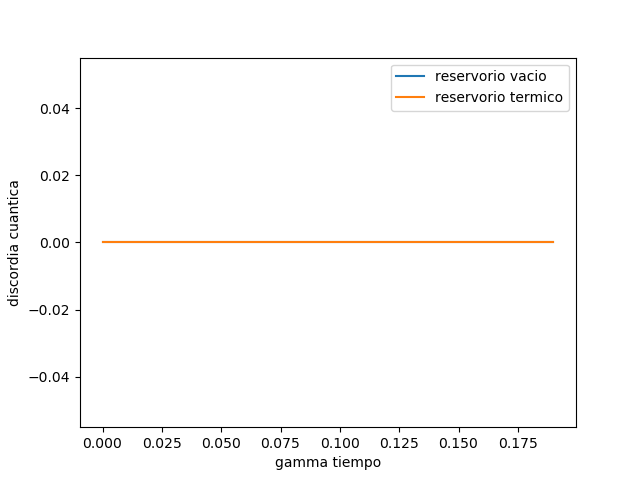
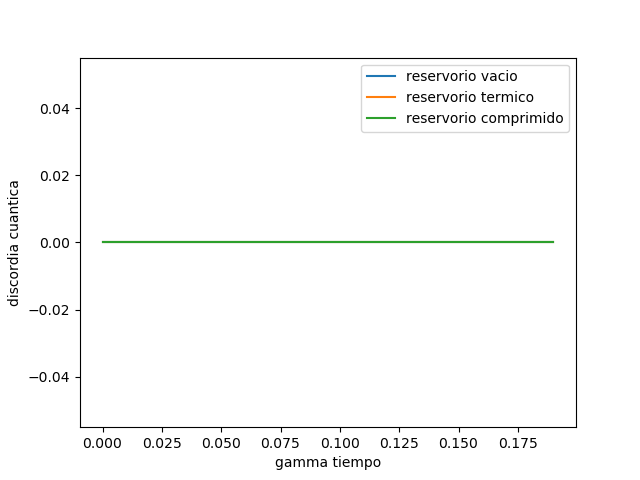
Cambio generado con script

Changed region(s): [[0.5625, 0.125, 0.875, 0.2812], [0.1562, 0.5, 0.8438, 0.5312]]

diff --git a/master.py b/master.py
@@ -142,123 +142,124 @@ disc_I5_S2S = [0 for i in range(20)]
 for i in range (0,20):
       conc_I1_S0S[i] = concurrence(Qobj(tensor(emA_I1_S0S.states[i],emB_I1_S0S.states[i])))
       disc_I1_S0S[i] = entropy_mutual(Qobj(tensor(emA_I1_S0S.states[i],emB_I1_S0S.states[i])),0,1)+entropy_conditional(Qobj(tensor(emA_I1_S0S.states[i],emB_I1_S0S.states[i])),1)-entropy_vn(Qobj(tensor(emA_I1_S0S.states[i],emB_I1_S0S.states[i])).ptrace(0))
-      conc_I2_S0S[i] = concurrence(Qobj(tensor(emA_I1_S0S.states[i],emB_I1_S0S.states[i])))
-      disc_I2_S0S[i] = entropy_mutual(Qobj(tensor(emA_I1_S0S.states[i],emB_I1_S0S.states[i])),0,1)+entropy_conditional(Qobj(tensor(emA_I1_S0S.states[i],emB_I1_S0S.states[i])),1)-entropy_vn(Qobj(tensor(emA_I1_S0S.states[i],emB_I1_S0S.states[i])).ptrace(0))
-      conc_I3_S0S[i] = concurrence(Qobj(tensor(emA_I1_S0S.states[i],emB_I1_S0S.states[i])))
-      disc_I3_S0S[i] = entropy_mutual(Qobj(tensor(emA_I1_S0S.states[i],emB_I1_S0S.states[i])),0,1)+entropy_conditional(Qobj(tensor(emA_I1_S0S.states[i],emB_I1_S0S.states[i])),1)-entropy_vn(Qobj(tensor(emA_I1_S0S.states[i],emB_I1_S0S.states[i])).ptrace(0))
-      conc_I4_S0S[i] = concurrence(Qobj(tensor(emA_I1_S0S.states[i],emB_I1_S0S.states[i])))
-      disc_I4_S0S[i] = entropy_mutual(Qobj(tensor(emA_I1_S0S.states[i],emB_I1_S0S.states[i])),0,1)+entropy_conditional(Qobj(tensor(emA_I1_S0S.states[i],emB_I1_S0S.states[i])),1)-entropy_vn(Qobj(tensor(emA_I1_S0S.states[i],emB_I1_S0S.states[i])).ptrace(0))
-      conc_I5_S0S[i] = concurrence(Qobj(tensor(emA_I1_S0S.states[i],emB_I1_S0S.states[i])))
-      disc_I5_S0S[i] = entropy_mutual(Qobj(tensor(emA_I1_S0S.states[i],emB_I1_S0S.states[i])),0,1)+entropy_conditional(Qobj(tensor(emA_I1_S0S.states[i],emB_I1_S0S.states[i])),1)-entropy_vn(Qobj(tensor(emA_I1_S0S.states[i],emB_I1_S0S.states[i])).ptrace(0))
-      conc_I1_S1S[i] = concurrence(Qobj(tensor(emA_I1_S0S.states[i],emB_I1_S0S.states[i])))
-      disc_I1_S1S[i] = entropy_mutual(Qobj(tensor(emA_I1_S0S.states[i],emB_I1_S0S.states[i])),0,1)+entropy_conditional(Qobj(tensor(emA_I1_S0S.states[i],emB_I1_S0S.states[i])),1)-entropy_vn(Qobj(tensor(emA_I1_S0S.states[i],emB_I1_S0S.states[i])).ptrace(0))
-      conc_I2_S1S[i] = concurrence(Qobj(tensor(emA_I1_S0S.states[i],emB_I1_S0S.states[i])))
-      disc_I2_S1S[i] = entropy_mutual(Qobj(tensor(emA_I1_S0S.states[i],emB_I1_S0S.states[i])),0,1)+entropy_conditional(Qobj(tensor(emA_I1_S0S.states[i],emB_I1_S0S.states[i])),1)-entropy_vn(Qobj(tensor(emA_I1_S0S.states[i],emB_I1_S0S.states[i])).ptrace(0))
-      conc_I3_S1S[i] = concurrence(Qobj(tensor(emA_I1_S0S.states[i],emB_I1_S0S.states[i])))
-      disc_I3_S1S[i] = entropy_mutual(Qobj(tensor(emA_I1_S0S.states[i],emB_I1_S0S.states[i])),0,1)+entropy_conditional(Qobj(tensor(emA_I1_S0S.states[i],emB_I1_S0S.states[i])),1)-entropy_vn(Qobj(tensor(emA_I1_S0S.states[i],emB_I1_S0S.states[i])).ptrace(0))
-      conc_I4_S1S[i] = concurrence(Qobj(tensor(emA_I1_S0S.states[i],emB_I1_S0S.states[i])))
-      disc_I4_S1S[i] = entropy_mutual(Qobj(tensor(emA_I1_S0S.states[i],emB_I1_S0S.states[i])),0,1)+entropy_conditional(Qobj(tensor(emA_I1_S0S.states[i],emB_I1_S0S.states[i])),1)-entropy_vn(Qobj(tensor(emA_I1_S0S.states[i],emB_I1_S0S.states[i])).ptrace(0))
-      conc_I5_S1S[i] = concurrence(Qobj(tensor(emA_I1_S0S.states[i],emB_I1_S0S.states[i])))
-      disc_I5_S1S[i] = entropy_mutual(Qobj(tensor(emA_I1_S0S.states[i],emB_I1_S0S.states[i])),0,1)+entropy_conditional(Qobj(tensor(emA_I1_S0S.states[i],emB_I1_S0S.states[i])),1)-entropy_vn(Qobj(tensor(emA_I1_S0S.states[i],emB_I1_S0S.states[i])).ptrace(0))
-      conc_I1_S2S[i] = concurrence(Qobj(tensor(emA_I1_S0S.states[i],emB_I1_S0S.states[i])))
-      disc_I1_S2S[i] = entropy_mutual(Qobj(tensor(emA_I1_S0S.states[i],emB_I1_S0S.states[i])),0,1)+entropy_conditional(Qobj(tensor(emA_I1_S0S.states[i],emB_I1_S0S.states[i])),1)-entropy_vn(Qobj(tensor(emA_I1_S0S.states[i],emB_I1_S0S.states[i])).ptrace(0))
-      conc_I2_S2S[i] = concurrence(Qobj(tensor(emA_I1_S0S.states[i],emB_I1_S0S.states[i])))
-      disc_I2_S2S[i] = entropy_mutual(Qobj(tensor(emA_I1_S0S.states[i],emB_I1_S0S.states[i])),0,1)+entropy_conditional(Qobj(tensor(emA_I1_S0S.states[i],emB_I1_S0S.states[i])),1)-entropy_vn(Qobj(tensor(emA_I1_S0S.states[i],emB_I1_S0S.states[i])).ptrace(0))
-      conc_I3_S2S[i] = concurrence(Qobj(tensor(emA_I1_S0S.states[i],emB_I1_S0S.states[i])))
-      disc_I3_S2S[i] = entropy_mutual(Qobj(tensor(emA_I1_S0S.states[i],emB_I1_S0S.states[i])),0,1)+entropy_conditional(Qobj(tensor(emA_I1_S0S.states[i],emB_I1_S0S.states[i])),1)-entropy_vn(Qobj(tensor(emA_I1_S0S.states[i],emB_I1_S0S.states[i])).ptrace(0))
-      conc_I4_S2S[i] = concurrence(Qobj(tensor(emA_I1_S0S.states[i],emB_I1_S0S.states[i])))
-      disc_I4_S2S[i] = entropy_mutual(Qobj(tensor(emA_I1_S0S.states[i],emB_I1_S0S.states[i])),0,1)+entropy_conditional(Qobj(tensor(emA_I1_S0S.states[i],emB_I1_S0S.states[i])),1)-entropy_vn(Qobj(tensor(emA_I1_S0S.states[i],emB_I1_S0S.states[i])).ptrace(0))
-      conc_I5_S2S[i] = concurrence(Qobj(tensor(emA_I1_S0S.states[i],emB_I1_S0S.states[i])))
-      disc_I5_S2S[i] = entropy_mutual(Qobj(tensor(emA_I1_S0S.states[i],emB_I1_S0S.states[i])),0,1)+entropy_conditional(Qobj(tensor(emA_I1_S0S.states[i],emB_I1_S0S.states[i])),1)-entropy_vn(Qobj(tensor(emA_I1_S0S.states[i],emB_I1_S0S.states[i])).ptrace(0))
+      conc_I2_S0S[i] = concurrence(Qobj(tensor(emA_I2_S0S.states[i],emB_I2_S0S.states[i])))
+      disc_I2_S0S[i] = entropy_mutual(Qobj(tensor(emA_I2_S0S.states[i],emB_I2_S0S.states[i])),0,1)+entropy_conditional(Qobj(tensor(emA_I2_S0S.states[i],emB_I2_S0S.states[i])),1)-entropy_vn(Qobj(tensor(emA_I2_S0S.states[i],emB_I2_S0S.states[i])).ptrace(0))
+      conc_I3_S0S[i] = concurrence(Qobj(tensor(emA_I3_S0S.states[i],emB_I3_S0S.states[i])))
+      disc_I3_S0S[i] = entropy_mutual(Qobj(tensor(emA_I3_S0S.states[i],emB_I3_S0S.states[i])),0,1)+entropy_conditional(Qobj(tensor(emA_I3_S0S.states[i],emB_I3_S0S.states[i])),1)-entropy_vn(Qobj(tensor(emA_I3_S0S.states[i],emB_I3_S0S.states[i])).ptrace(0))
+      conc_I4_S0S[i] = concurrence(Qobj(tensor(emA_I4_S0S.states[i],emB_I4_S0S.states[i])))
+      disc_I4_S0S[i] = entropy_mutual(Qobj(tensor(emA_I4_S0S.states[i],emB_I4_S0S.states[i])),0,1)+entropy_conditional(Qobj(tensor(emA_I4_S0S.states[i],emB_I4_S0S.states[i])),1)-entropy_vn(Qobj(tensor(emA_I4_S0S.states[i],emB_I1_S0S.states[i])).ptrace(0))
+      conc_I5_S0S[i] = concurrence(Qobj(tensor(emA_I5_S0S.states[i],emB_I5_S0S.states[i])))
+      disc_I5_S0S[i] = entropy_mutual(Qobj(tensor(emA_I5_S0S.states[i],emB_I5_S0S.states[i])),0,1)+entropy_conditional(Qobj(tensor(emA_I5_S0S.states[i],emB_I5_S0S.states[i])),1)-entropy_vn(Qobj(tensor(emA_I5_S0S.states[i],emB_I1_S0S.states[i])).ptrace(0))
+      conc_I1_S1S[i] = concurrence(Qobj(tensor(emA_I1_S1S.states[i],emB_I1_S1S.states[i])))
+      disc_I1_S1S[i] = entropy_mutual(Qobj(tensor(emA_I1_S1S.states[i],emB_I1_S1S.states[i])),0,1)+entropy_conditional(Qobj(tensor(emA_I1_S1S.states[i],emB_I1_S1S.states[i])),1)-entropy_vn(Qobj(tensor(emA_I1_S1S.states[i],emB_I1_S1S.states[i])).ptrace(0))
+      conc_I2_S1S[i] = concurrence(Qobj(tensor(emA_I2_S1S.states[i],emB_I2_S1S.states[i])))
+      disc_I2_S1S[i] = entropy_mutual(Qobj(tensor(emA_I2_S1S.states[i],emB_I2_S1S.states[i])),0,1)+entropy_conditional(Qobj(tensor(emA_I2_S1S.states[i],emB_I2_S1S.states[i])),1)-entropy_vn(Qobj(tensor(emA_I2_S1S.states[i],emB_I2_S1S.states[i])).ptrace(0))
+      conc_I3_S1S[i] = concurrence(Qobj(tensor(emA_I3_S1S.states[i],emB_I3_S1S.states[i])))
+      disc_I3_S1S[i] = entropy_mutual(Qobj(tensor(emA_I3_S1S.states[i],emB_I3_S1S.states[i])),0,1)+entropy_conditional(Qobj(tensor(emA_I3_S1S.states[i],emB_I3_S1S.states[i])),1)-entropy_vn(Qobj(tensor(emA_I3_S1S.states[i],emB_I3_S1S.states[i])).ptrace(0))
+      conc_I4_S1S[i] = concurrence(Qobj(tensor(emA_I4_S1S.states[i],emB_I4_S1S.states[i])))
+      disc_I4_S1S[i] = entropy_mutual(Qobj(tensor(emA_I4_S1S.states[i],emB_I4_S1S.states[i])),0,1)+entropy_conditional(Qobj(tensor(emA_I4_S1S.states[i],emB_I4_S1S.states[i])),1)-entropy_vn(Qobj(tensor(emA_I4_S1S.states[i],emB_I4_S1S.states[i])).ptrace(0))
+      conc_I5_S1S[i] = concurrence(Qobj(tensor(emA_I5_S1S.states[i],emB_I5_S1S.states[i])))
+      disc_I5_S1S[i] = entropy_mutual(Qobj(tensor(emA_I5_S1S.states[i],emB_I5_S1S.states[i])),0,1)+entropy_conditional(Qobj(tensor(emA_I5_S1S.states[i],emB_I5_S1S.states[i])),1)-entropy_vn(Qobj(tensor(emA_I5_S1S.states[i],emB_I5_S1S.states[i])).ptrace(0))
+      conc_I1_S2S[i] = concurrence(Qobj(tensor(emA_I1_S2S.states[i],emB_I1_S2S.states[i])))
+      disc_I1_S2S[i] = entropy_mutual(Qobj(tensor(emA_I1_S2S.states[i],emB_I1_S2S.states[i])),0,1)+entropy_conditional(Qobj(tensor(emA_I1_S2S.states[i],emB_I1_S2S.states[i])),1)-entropy_vn(Qobj(tensor(emA_I1_S2S.states[i],emB_I1_S2S.states[i])).ptrace(0))
+      conc_I2_S2S[i] = concurrence(Qobj(tensor(emA_I2_S2S.states[i],emB_I2_S2S.states[i])))
+      disc_I2_S2S[i] = entropy_mutual(Qobj(tensor(emA_I2_S2S.states[i],emB_I2_S2S.states[i])),0,1)+entropy_conditional(Qobj(tensor(emA_I2_S2S.states[i],emB_I2_S2S.states[i])),1)-entropy_vn(Qobj(tensor(emA_I2_S2S.states[i],emB_I2_S2S.states[i])).ptrace(0))
+      conc_I3_S2S[i] = concurrence(Qobj(tensor(emA_I3_S2S.states[i],emB_I3_S2S.states[i])))
+      disc_I3_S2S[i] = entropy_mutual(Qobj(tensor(emA_I3_S2S.states[i],emB_I3_S2S.states[i])),0,1)+entropy_conditional(Qobj(tensor(emA_I3_S2S.states[i],emB_I3_S2S.states[i])),1)-entropy_vn(Qobj(tensor(emA_I3_S2S.states[i],emB_I3_S2S.states[i])).ptrace(0))
+      conc_I4_S2S[i] = concurrence(Qobj(tensor(emA_I4_S2S.states[i],emB_I4_S2S.states[i])))
+      disc_I4_S2S[i] = entropy_mutual(Qobj(tensor(emA_I4_S2S.states[i],emB_I4_S2S.states[i])),0,1)+entropy_conditional(Qobj(tensor(emA_I4_S2S.states[i],emB_I4_S2S.states[i])),1)-entropy_vn(Qobj(tensor(emA_I4_S2S.states[i],emB_I4_S2S.states[i])).ptrace(0))
+      conc_I5_S2S[i] = concurrence(Qobj(tensor(emA_I5_S2S.states[i],emB_I5_S2S.states[i])))
+      disc_I5_S2S[i] = entropy_mutual(Qobj(tensor(emA_I5_S2S.states[i],emB_I5_S2S.states[i])),0,1)+entropy_conditional(Qobj(tensor(emA_I5_S2S.states[i],emB_I5_S2S.states[i])),1)-entropy_vn(Qobj(tensor(emA_I5_S2S.states[i],emB_I5_S2S.states[i])).ptrace(0))
 
 #Graficar
 figure()
 plot(tiempo,disc_I1_S0S)
 plot(tiempo,disc_I1_S1S)
-#plot(tiempo,disc_I1_S2S)
+plot(tiempo,disc_I1_S2S)
 xlabel('gamma tiempo')
 ylabel('discordia cuantica')
-legend(('reservorio vacio', 'reservorio termico'))
+legend(('reservorio vacio', 'reservorio termico','reservorio comprimido'))
 savefig('disc_bell1_S.png')
 
 figure()
 plot(tiempo,disc_I2_S0S)
 plot(tiempo,disc_I2_S1S)
-#plot(tiempo,disc_I2_S2S)
+plot(tiempo,disc_I2_S2S)
 xlabel('gamma tiempo')
 ylabel('discordia cuantica')
-legend(('reservorio vacio', 'reservorio termico'))
+legend(('reservorio vacio', 'reservorio termico','reservorio comprimido'))
 savefig('disc_bell3_S.png')
 
 figure()
 plot(tiempo,disc_I3_S0S)
 plot(tiempo,disc_I3_S1S)
-#plot(tiempo,disc_I3_S2S)
+plot(tiempo,disc_I3_S2S)
 xlabel('gamma tiempo')
 ylabel('discordia cuantica')
-legend(('reservorio vacio', 'reservorio termico'))
+legend(('reservorio vacio', 'reservorio termico','reservorio comprimido'))
 savefig('disc_logi2_S.png')
 
 figure()
 plot(tiempo,disc_I4_S0S)
 plot(tiempo,disc_I4_S1S)
-#plot(tiempo,disc_I4_S2S)
+plot(tiempo,disc_I4_S2S)
 xlabel('gamma tiempo')
 ylabel('discordia cuantica')
-legend(('reservorio vacio', 'reservorio termico'))
+legend(('reservorio vacio', 'reservorio termico','reservorio comprimido'))
 savefig('disc_logi4_S.png')
 
 figure()
 plot(tiempo,disc_I5_S0S)
 plot(tiempo,disc_I5_S1S)
-#plot(tiempo,disc_I5_S2S)
+plot(tiempo,disc_I5_S2S)
 xlabel('gamma tiempo')
 ylabel('discordia cuantica')
-legend(('reservorio vacio', 'reservorio termico'))
+legend(('reservorio vacio', 'reservorio termico', 'reservorio comprimido'))
 savefig('disc_logi1_S.png')
 
 figure()
 plot(tiempo,conc_I1_S0S)
 plot(tiempo,conc_I1_S1S)
-#plot(tiempo,conc_I1_S2S)
+plot(tiempo,conc_I1_S2S)
 xlabel('gamma tiempo')
 ylabel('discordia cuantica')
-legend(('reservorio vacio', 'reservorio termico'))
+legend(('reservorio vacio', 'reservorio termico', 'reservorio comprimido'))
 savefig('conc_bell1_S.png')
 
 figure()
 plot(tiempo,conc_I2_S0S)
 plot(tiempo,conc_I2_S1S)
-#plot(tiempo,conc_I2_S2S)
+plot(tiempo,conc_I2_S2S)
 xlabel('gamma tiempo')
 ylabel('discordia cuantica')
-legend(('reservorio vacio', 'reservorio termico'))
+legend(('reservorio vacio', 'reservorio termico', 'reservorio comprimido'))
 savefig('conc_bell3_S.png')
 
 figure()
 plot(tiempo,conc_I3_S0S)
 plot(tiempo,conc_I3_S1S)
-#plot(tiempo,conc_I3_S2S)
+plot(tiempo,conc_I3_S2S)
 xlabel('gamma tiempo')
 ylabel('discordia cuantica')
-legend(('reservorio vacio', 'reservorio termico'))
+legend(('reservorio vacio', 'reservorio termico', 'reservorio comprimido'))
 savefig('conc_logi3_S.png')
 
 figure()
 plot(tiempo,conc_I4_S0S)
 plot(tiempo,conc_I4_S1S)
-#plot(tiempo,conc_I4_S2S)
+plot(tiempo,conc_I4_S2S)
 xlabel('gamma tiempo')
 ylabel('discordia cuantica')
-legend(('reservorio vacio', 'reservorio termico'))
+legend(('reservorio vacio', 'reservorio termico', 'reservorio comprimido'))
 savefig('conc_logi4_S.png')
 
 figure()
 plot(tiempo,conc_I5_S0S)
 plot(tiempo,conc_I5_S1S)
-#plot(tiempo,conc_I5_S2S)
+plot(tiempo,conc_I5_S2S)
 xlabel('gamma tiempo')
 ylabel('discordia cuantica')
-legend(('reservorio vacio', 'reservorio termico'))
+legend(('reservorio vacio', 'reservorio termico', 'reservorio comprimido'))
 savefig('conc_logi1_S.png')
+
 
